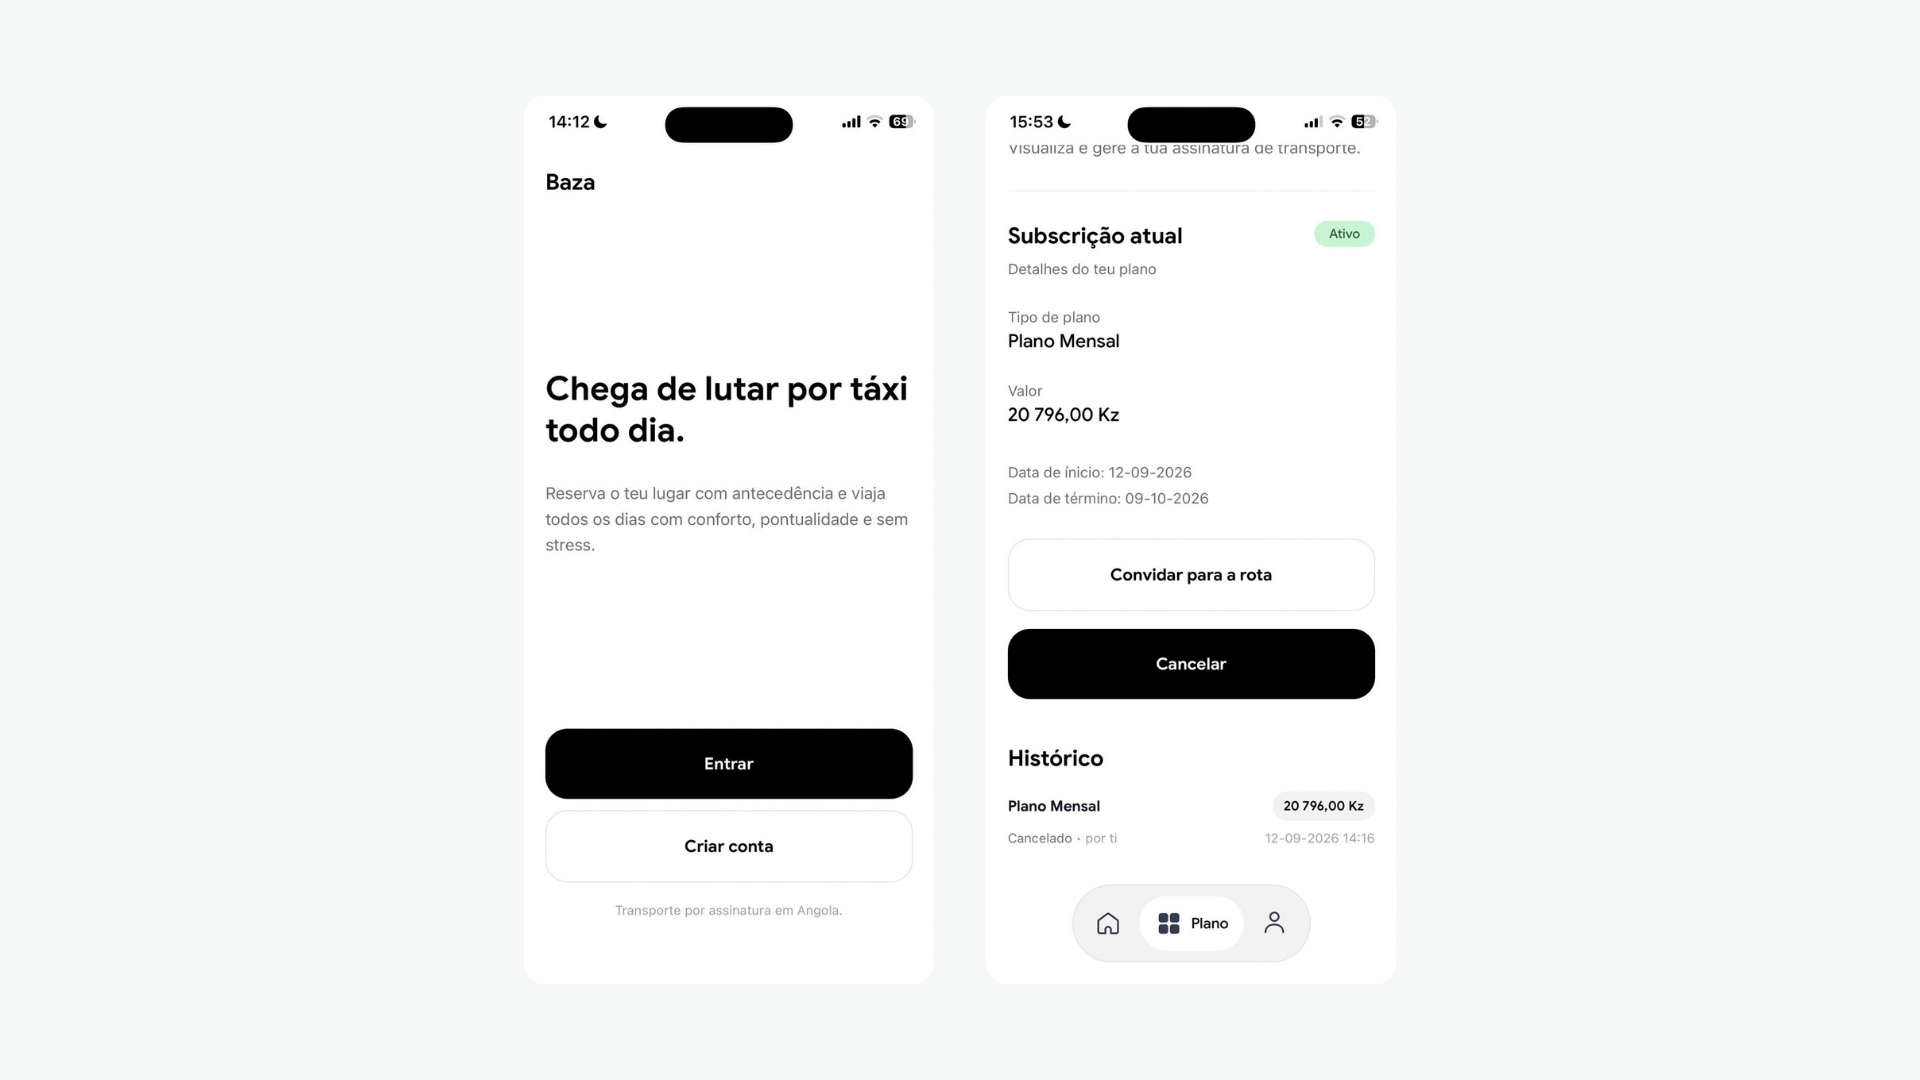
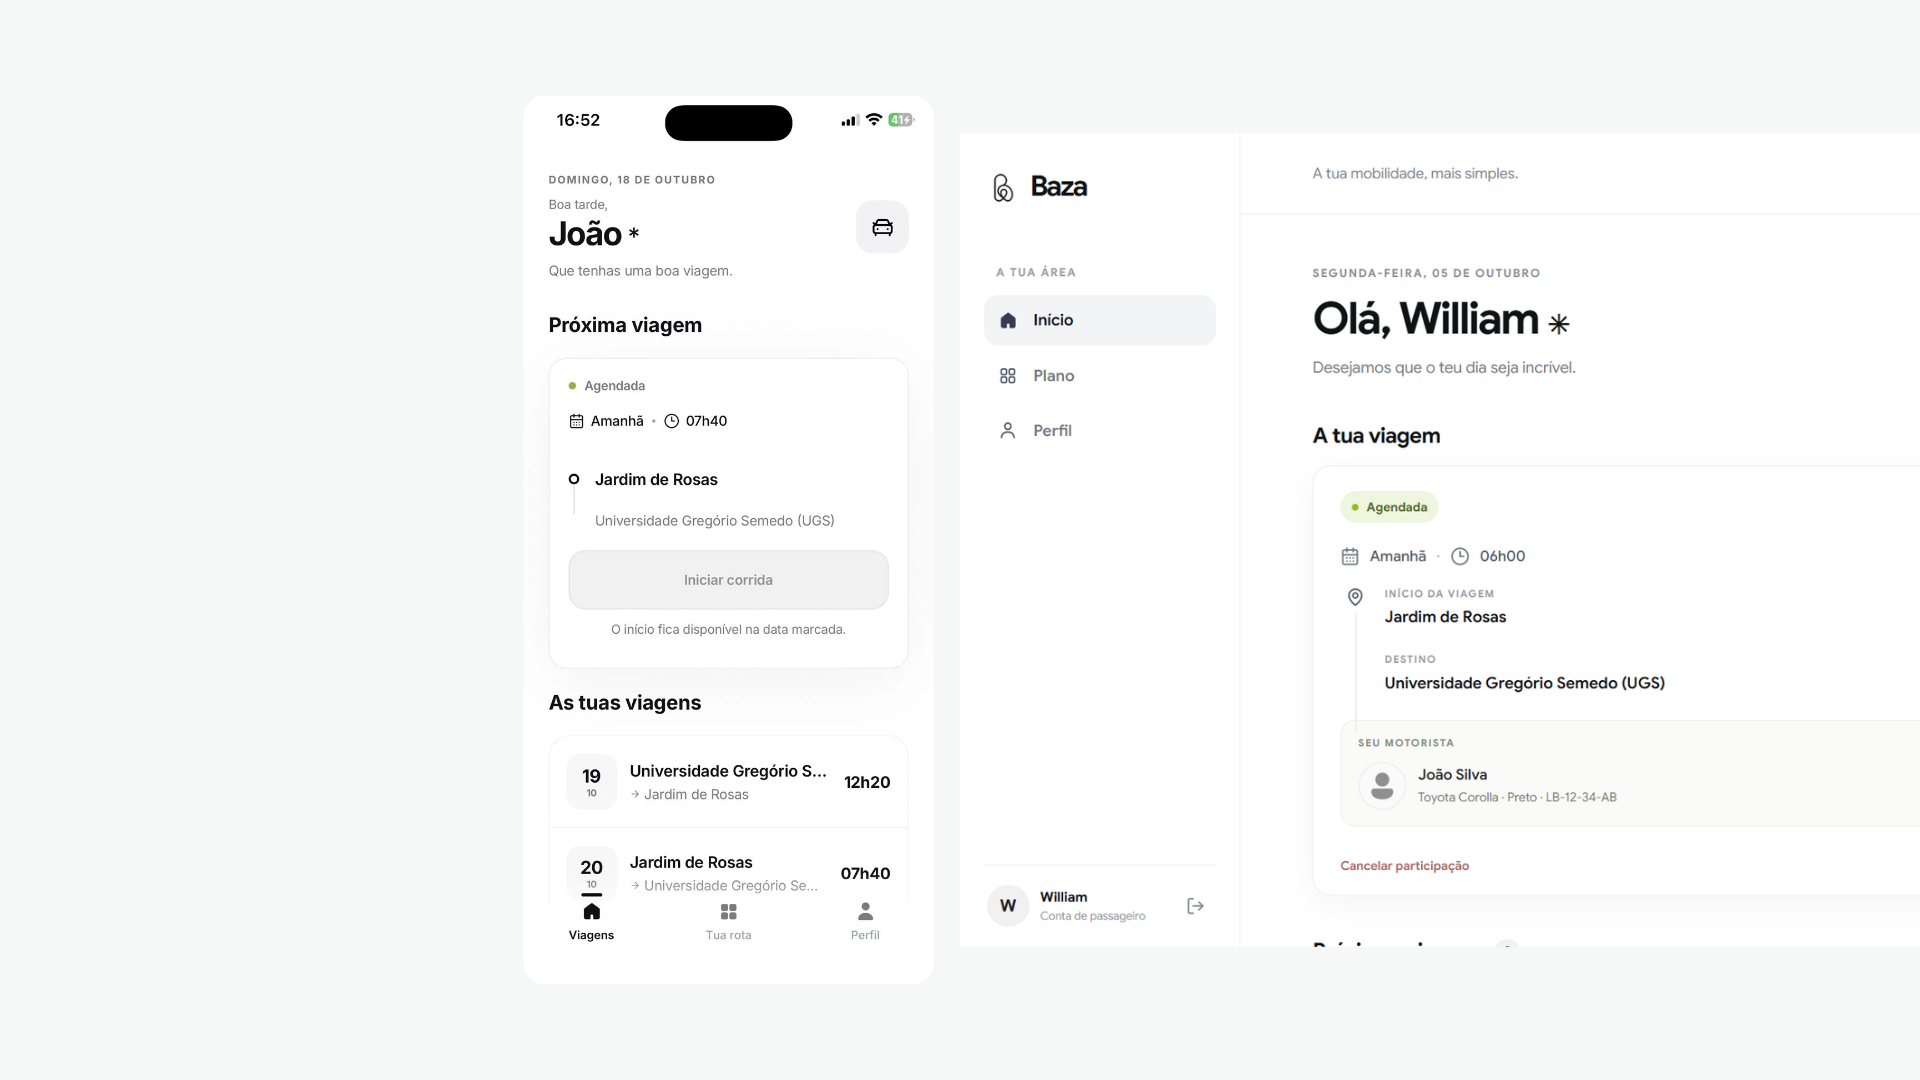
chore: update Baza domain and project image

diff --git a/lib/data.ts b/lib/data.ts
@@ -17,7 +17,7 @@ export const personal = {
   links: {
     github: "https://github.com/williamhumbwavali",
     linkedin: "https://www.linkedin.com/in/williamhumbwavali/",
-    baza: "https://bazaja.vercel.app/",
+    baza: "https://bazaja.com/",
     lithe: "https://pt-lithephp.vercel.app/",
   },
 };
@@ -63,7 +63,7 @@ export const projects = [
     links: [
       {
         label: "Site",
-        href: "https://bazaja.vercel.app/",
+        href: "https://bazaja.com/",
       },
     ],
     artwork: "baza",
